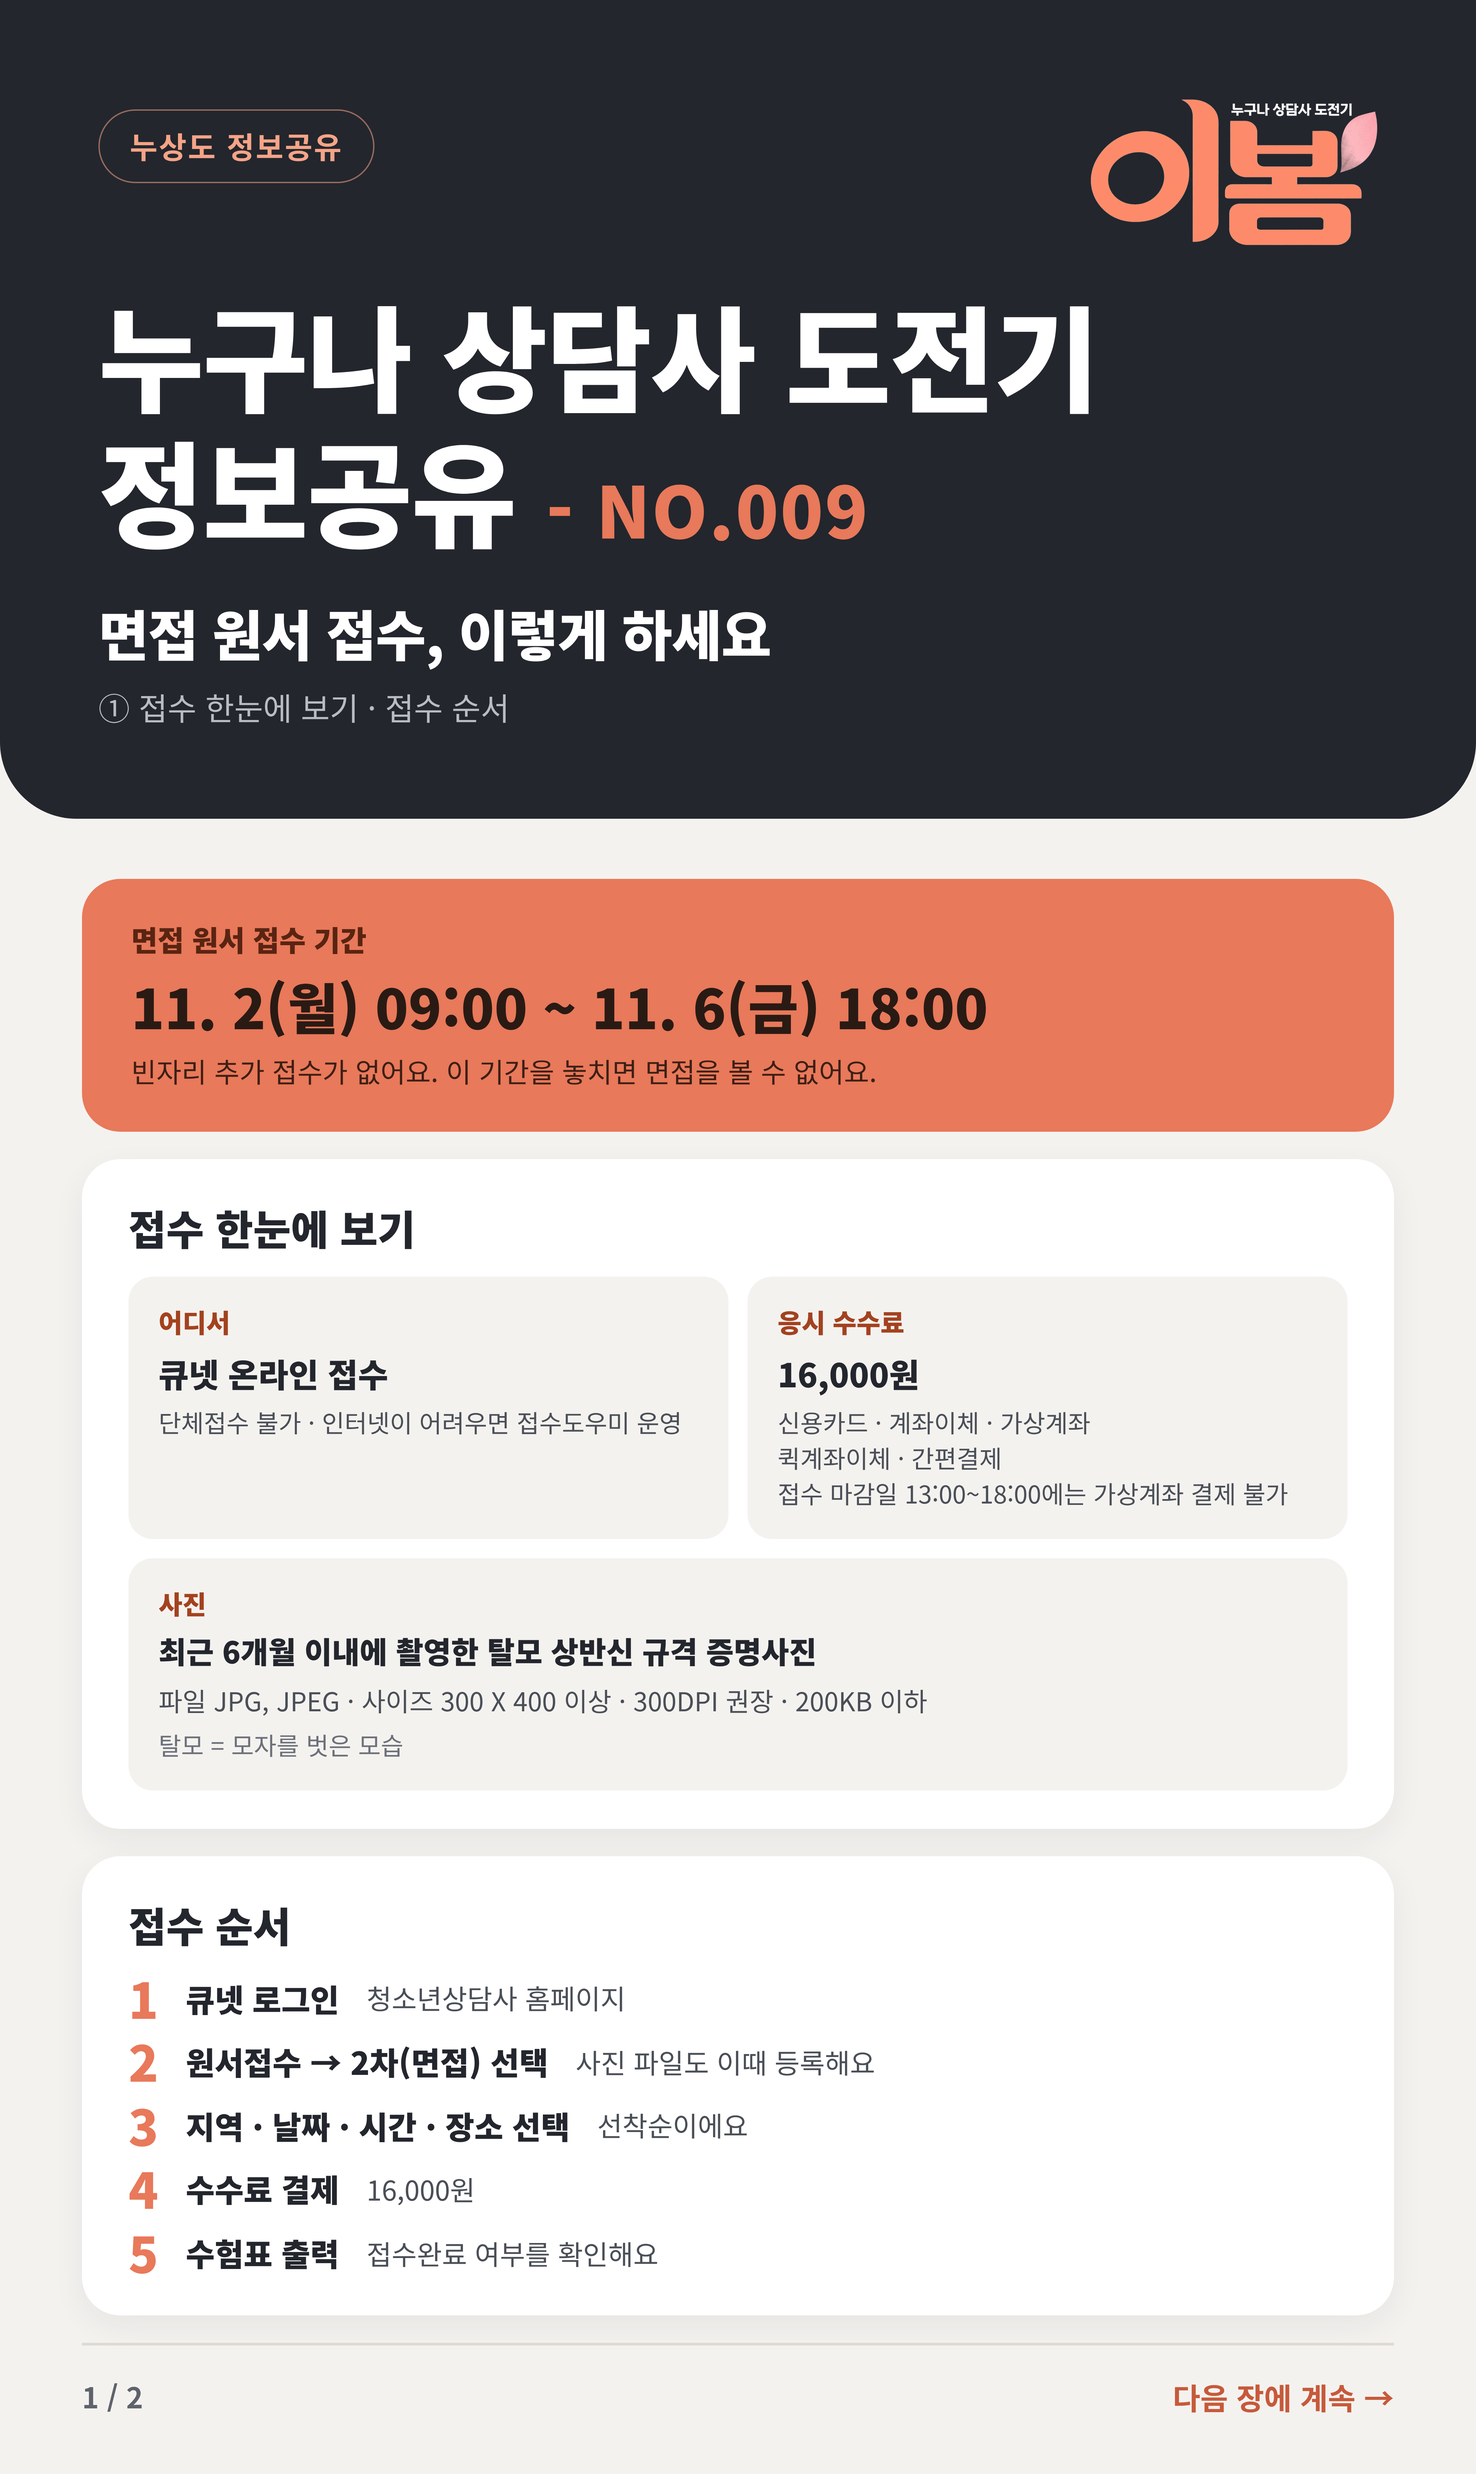
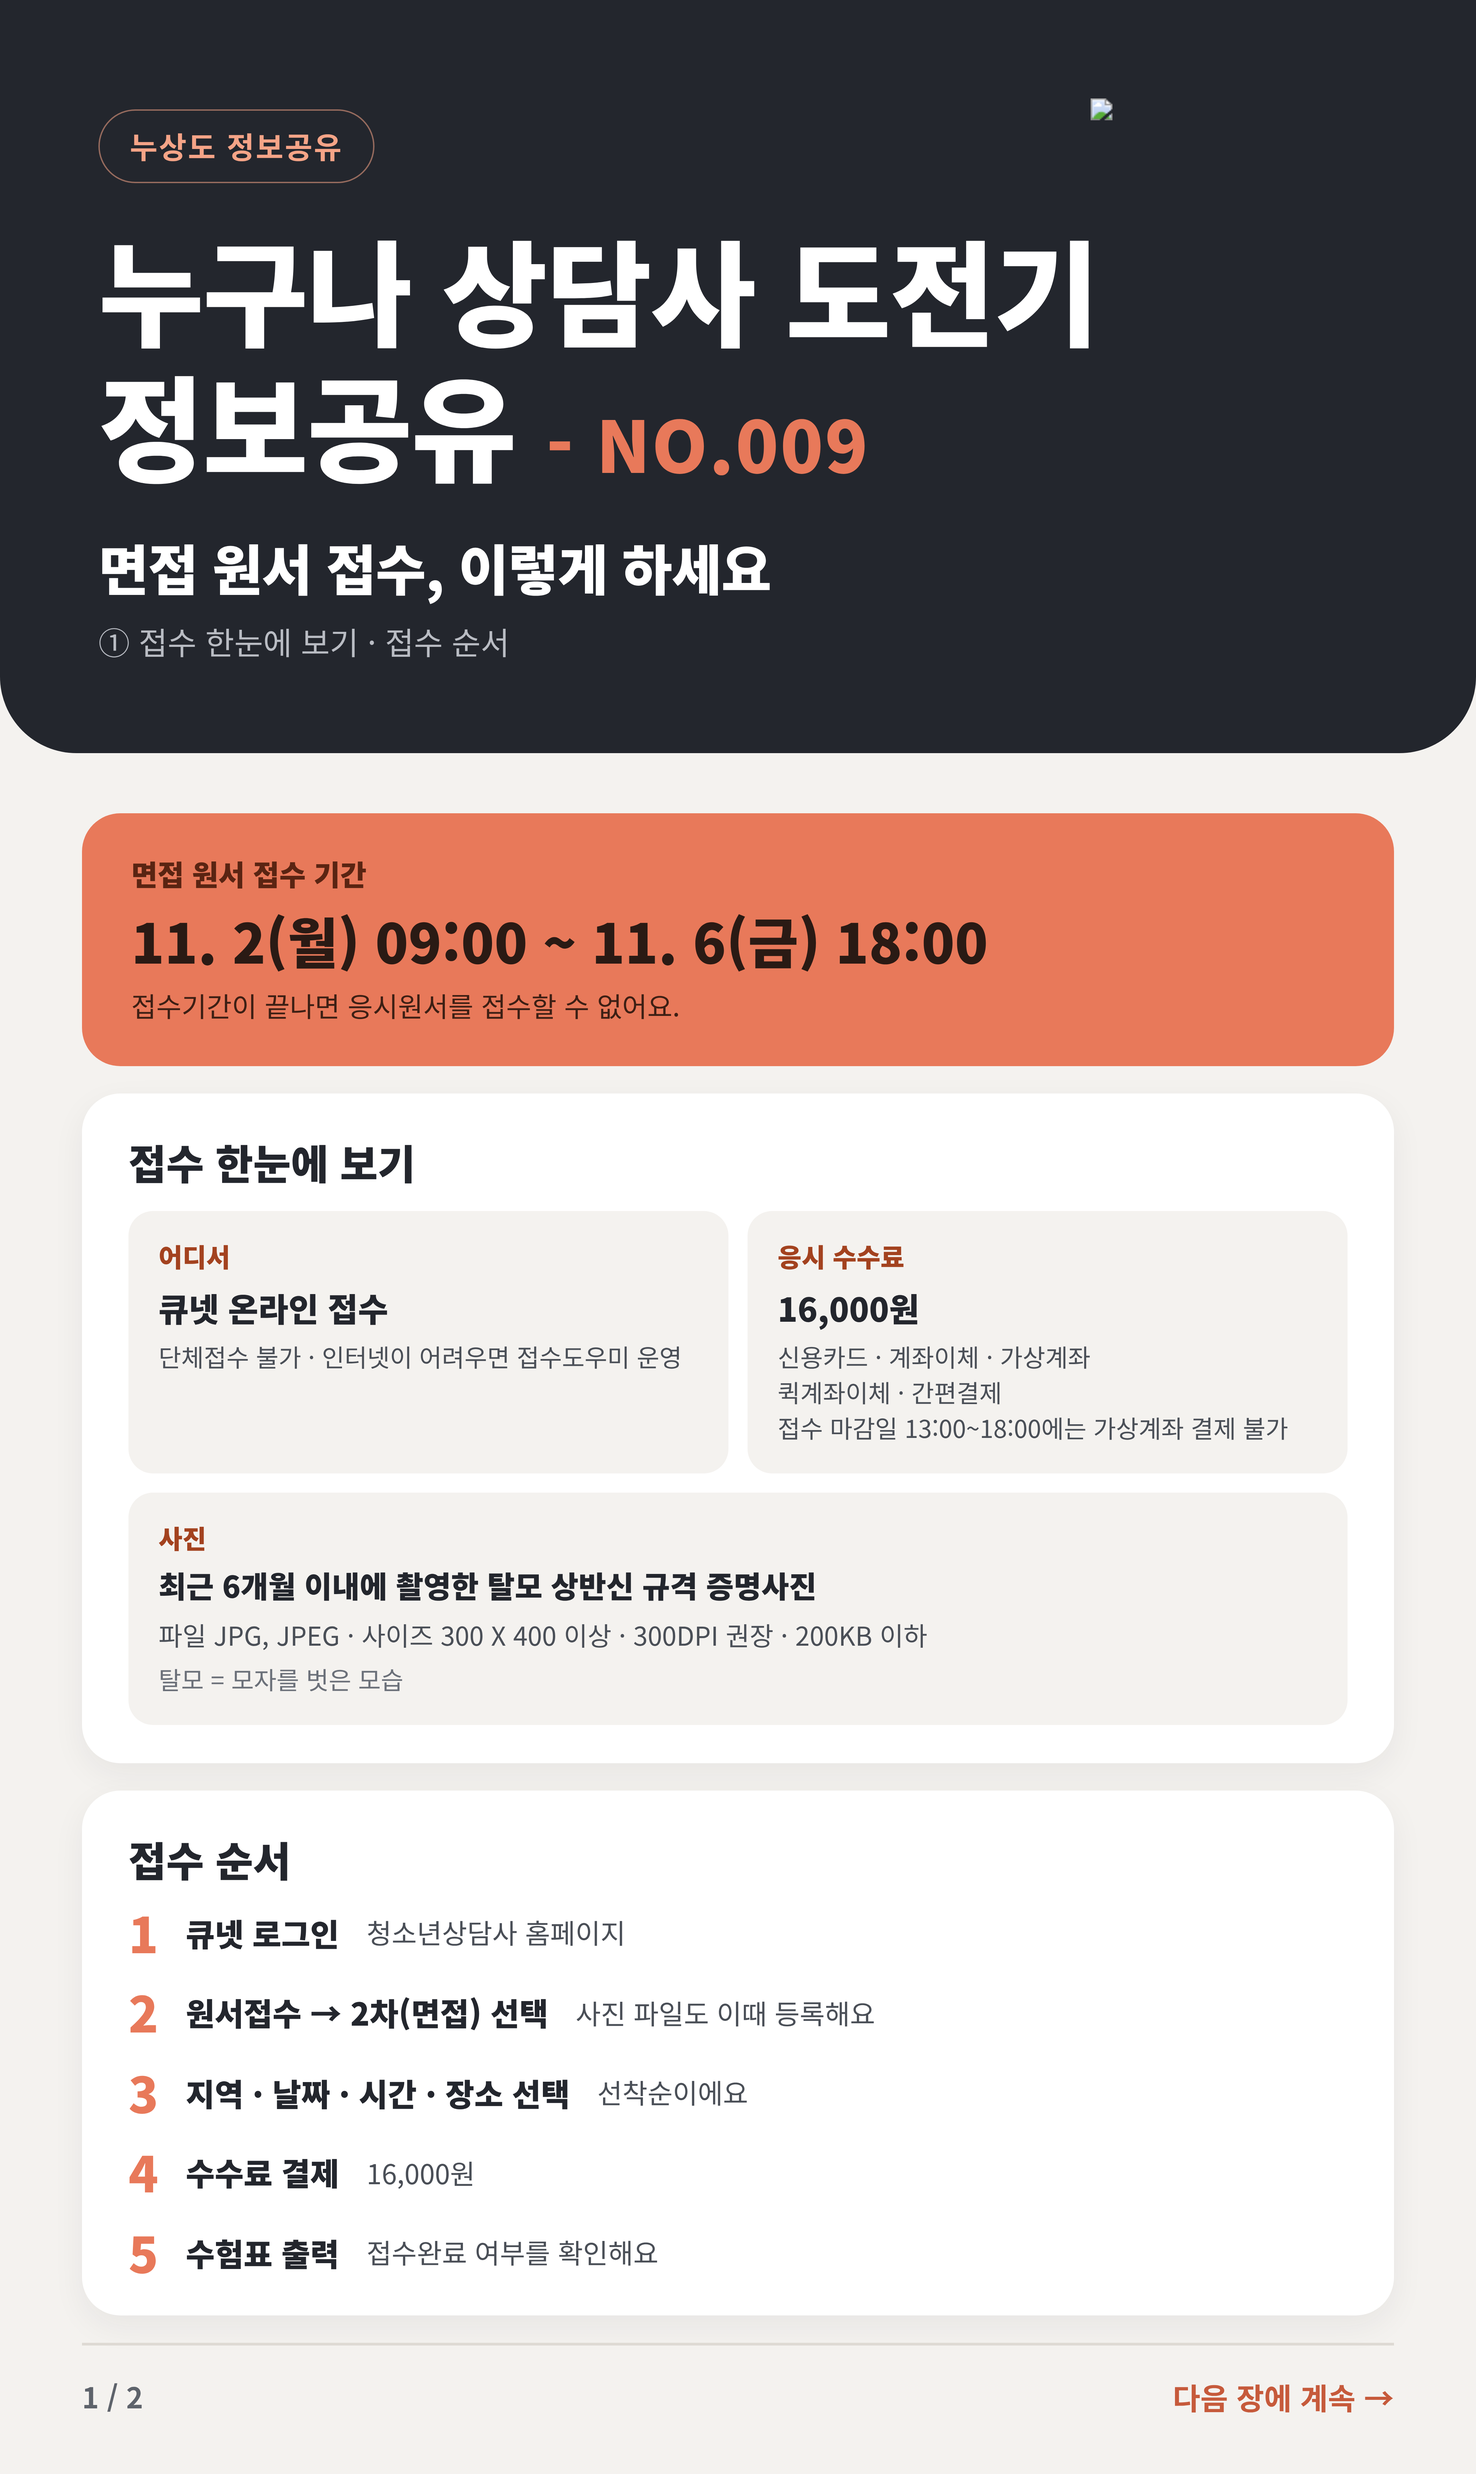
NO.009 1장 원문에 없는 '빈자리 접수 없음' 문구 제거, 검색 키워드 정리
Claude-Session: https://claude.ai/code/session_01QL5gwSnyMoieBCHz4hv6ax

diff --git a/index.html b/index.html
@@ -136,7 +136,7 @@ const POSTS = [
     pages:['010-1','010-2'] },
   { no:'009', fname:'정보공유_면접원서접수방법', date:'2026-11-02', cat:'시험·자격', title:'면접 원서 접수, 이렇게 하세요',
     sum:'면접 원서 접수 기간과 방법, 수수료·사진 규정, 꼭 챙길 것과 취소·환불 기준을 정리했어요.',
-    kw:'면접 원서 접수 원서접수 2차 11월 2일 11월 6일 큐넷 인터넷 수수료 16000원 사진 여권용 6개월 선착순 시험장 날짜 장소 수험표 출력 접수완료 빈자리 없음 취소 환불 100% 60% 50% 큐파인더 Q-Finder 응시자격 서류',
+    kw:'면접 원서 접수 원서접수 2차 11월 2일 11월 6일 큐넷 인터넷 수수료 16000원 사진 규격 증명사진 탈모 상반신 6개월 선착순 시험장 날짜 장소 수험표 출력 접수완료 취소 환불 100% 60% 50% 큐파인더 Q-Finder 응시자격 서류',
     pages:['009-1','009-2'] },
   { no:'008', fname:'정보공유_상담자윤리핵심', date:'2026-10-30', cat:'상담 윤리', title:'상담자 윤리, 꼭 알아야 할 핵심',
     sum:'비밀보장과 그 예외, 미성년 내담자, 법으로 정해진 신고 의무, 다중관계를 정리했어요.',
